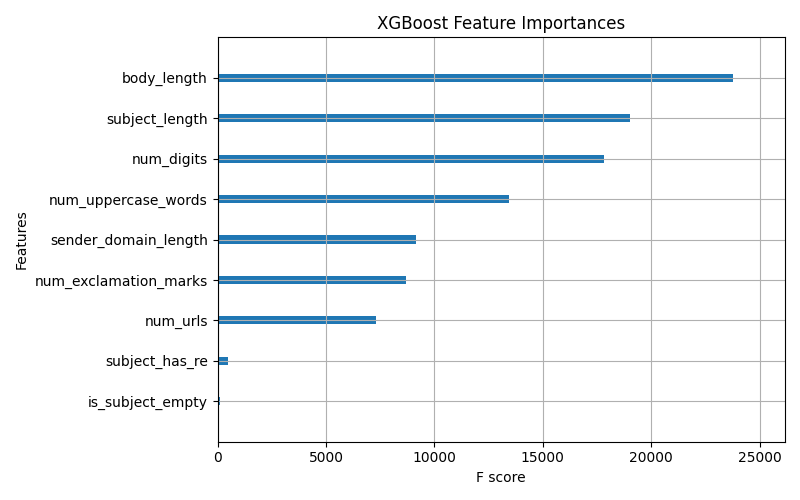
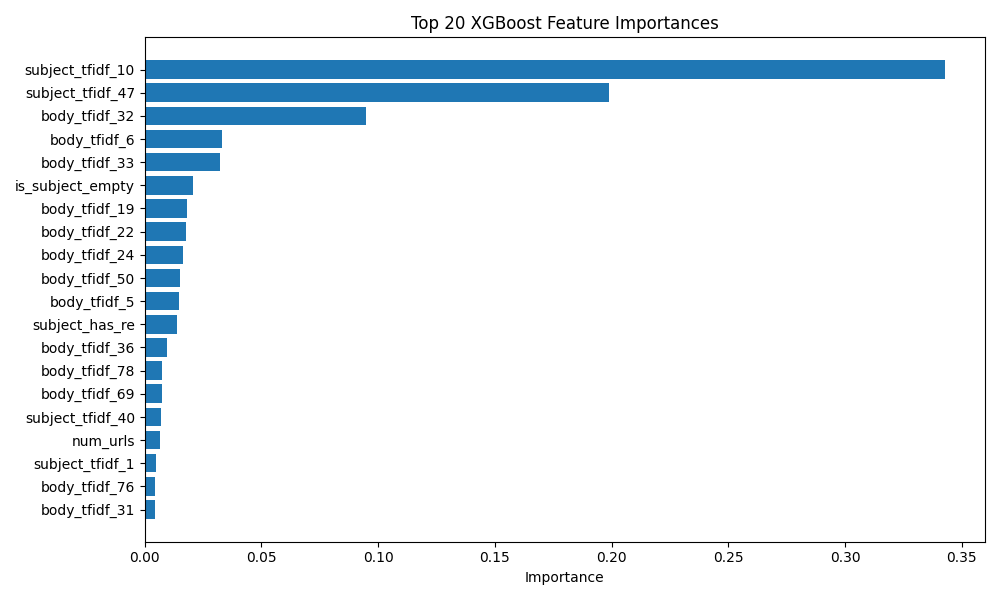
TF_IDF feature added

diff --git a/data/train.py b/data/train.py
@@ -5,13 +5,33 @@ import joblib
 import os
 from xgboost import XGBClassifier, plot_importance
 import matplotlib.pyplot as plt
+from sklearn.feature_extraction.text import TfidfVectorizer
+import numpy as np
 
 BASE_DIR = os.path.dirname(os.path.abspath(__file__))
 
 # Load features
 features_csv = os.path.join(BASE_DIR, 'features.csv')
 df = pd.read_csv(features_csv)
-X = df.drop('label', axis=1)
+# Fill NaNs
+df['body'] = df['body'].fillna('')
+df['subject'] = df['subject'].fillna('')
+
+# TF-IDF for body
+tfidf_body = TfidfVectorizer(max_features=100)
+body_tfidf = tfidf_body.fit_transform(df['body'])
+body_tfidf_df = pd.DataFrame(body_tfidf.toarray(), columns=[f'body_tfidf_{i}' for i in range(body_tfidf.shape[1])])
+
+# TF-IDF for subject
+tfidf_subject = TfidfVectorizer(max_features=50)
+subject_tfidf = tfidf_subject.fit_transform(df['subject'])
+subject_tfidf_df = pd.DataFrame(subject_tfidf.toarray(), columns=[f'subject_tfidf_{i}' for i in range(subject_tfidf.shape[1])])
+
+# Drop raw text columns
+df = df.drop(['body', 'subject', 'text'], axis=1, errors='ignore')
+
+# Combine all features
+X = pd.concat([df.drop('label', axis=1).reset_index(drop=True), body_tfidf_df, subject_tfidf_df], axis=1)
 y = df['label']
 
 # Train/test split
@@ -38,12 +58,37 @@ model_path = os.path.join(BASE_DIR, '../notebooks/best_model.pkl')
 joblib.dump(tuned_xgb, model_path)
 print(f'\nTuned XGBoost model saved to {model_path}')
 
-# Plot feature importances
-plt.figure(figsize=(8, 5))
-plot_importance(tuned_xgb, ax=plt.gca(), importance_type='weight', show_values=False)
-plt.title('XGBoost Feature Importances')
+# Get feature importances and feature names
+importances = tuned_xgb.feature_importances_
+feature_names = X.columns
+
+# Get indices of top 20 features
+top_indices = np.argsort(importances)[::-1][:20]
+
+# For body
+body_vocab = tfidf_body.get_feature_names_out()
+# For subject
+subject_vocab = tfidf_subject.get_feature_names_out()
+
+# Save TF-IDF index-to-word mappings to files
+body_vocab_path = os.path.join(BASE_DIR, 'body_tfidf_mapping.csv')
+subject_vocab_path = os.path.join(BASE_DIR, 'subject_tfidf_mapping.csv')
+
+pd.Series(body_vocab).to_csv(body_vocab_path, index_label='index', header=['word'])
+pd.Series(subject_vocab).to_csv(subject_vocab_path, index_label='index', header=['word'])
+
+print(f"Body TF-IDF vocabulary saved to {body_vocab_path}")
+print(f"Subject TF-IDF vocabulary saved to {subject_vocab_path}")
+
+# Plot top 20 feature importances
+plt.figure(figsize=(10, 6))
+top_features = [feature_names[idx] for idx in top_indices]
+top_importances = importances[top_indices]
+plt.barh(top_features[::-1], top_importances[::-1])  # reverse for descending order
+plt.xlabel('Importance')
+plt.title('Top 20 XGBoost Feature Importances')
 plt.tight_layout()
-feature_importance_path = os.path.join(BASE_DIR, '../data/xgboost_feature_importance.png')
+feature_importance_path = os.path.join(BASE_DIR, 'xgboost_feature_importance.png')
 plt.savefig(feature_importance_path)
 plt.close()
 print(f'Feature importance plot saved to {feature_importance_path}') 

diff --git a/data/preprocess.py b/data/preprocess.py
@@ -76,7 +76,7 @@ for file_path in epvme_files:
     epvme_rows.append(features)
 
 # --- 2. Process Enron legitimate emails ---
-enron_csv = os.path.join(BASE_DIR, 'emails.csv')
+enron_csv = os.path.join(BASE_DIR, 'Enron.csv')
 enron_df = pd.read_csv(enron_csv)
 enron_rows = []
 for idx, row in enron_df.iterrows():
@@ -92,6 +92,6 @@ feature_cols = [
 ]
 all_rows = epvme_rows + enron_rows
 df_all = pd.DataFrame(all_rows, columns=feature_cols)
-output_csv = os.path.join(BASE_DIR, '../data/combined_features.csv')
+output_csv = os.path.join(BASE_DIR, 'combined_features.csv')
 df_all.to_csv(output_csv, index=False)
-print("Combined feature set saved to data/combined_features.csv")
+print("Combined feature set saved to combined_features.csv")

diff --git a/backend/detector.py b/backend/detector.py
@@ -89,3 +89,4 @@ Bank Support Team
     print("XGBoost Risk Score:", result['xgboost_risk_score'])
     print("LLM Risk Score:", llm_dict['risk_score'])
     print("LLM Explanation:", llm_dict['explanation'])
+)
